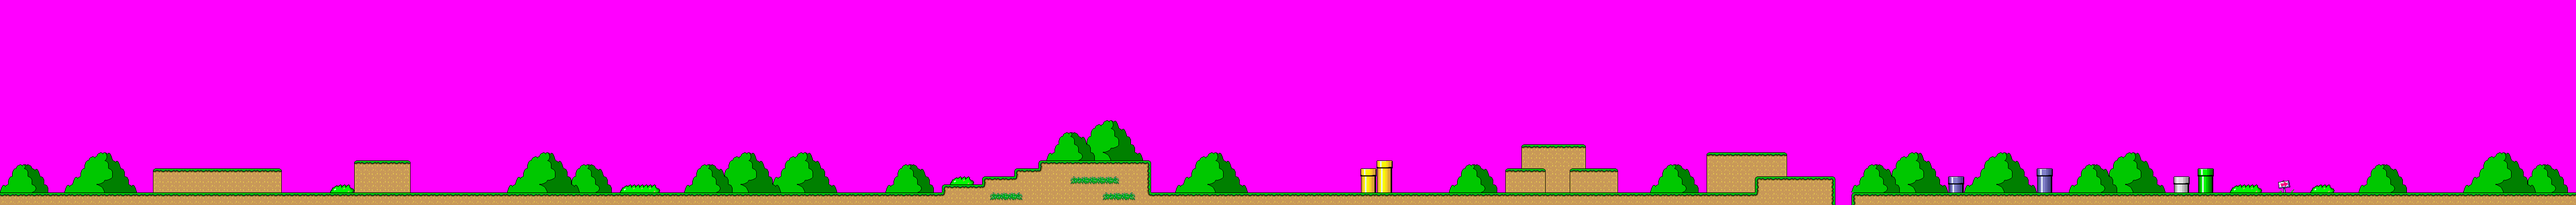
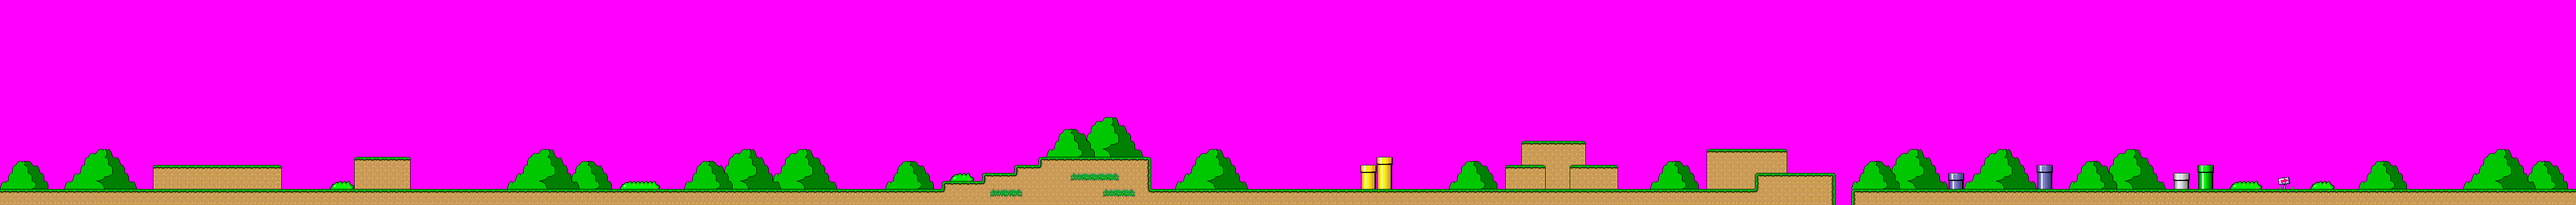
Add remaining coins
Adjust platforms and pipes placement
Improve sprite rendering (now using nearest neighbor)

Changed region(s): [[0.0, 0.5868, 1.0, 0.9976], [0.1875, 0.7335, 0.2188, 0.7922], [0.9062, 0.7922, 0.9375, 0.8215]]

diff --git a/LevelData.cpp b/LevelData.cpp
@@ -175,41 +175,41 @@ LevelData* LevelData::GenerateLevel(int levelIndex)
 	{
 		// TODO: Make this cleaner/more efficient, maybe use xml or json? (probably xml cause it's easier to parse manually)
 		// Definitely store in an external file
-		platformsStream << "[" << 305 << "," << 337 << "]";
-		platformsStream << "[" << 559 << "," << 342 << "]";
+		platformsStream << "[" << 305 << "," << 329 << "]";
+		platformsStream << "[" << 559 << "," << 334 << "]";
 		platformsStream << "\n";
-		platformsStream << "[" << 705 << "," << 321 << "]";
-		platformsStream << "[" << 815 << "," << 326 << "]";
+		platformsStream << "[" << 705 << "," << 313 << "]";
+		platformsStream << "[" << 815 << "," << 318 << "]";
 		platformsStream << "\n";
-		platformsStream << "[" << 2993 << "," << 337 << "]";
-		platformsStream << "[" << 3070 << "," << 342 << "]";
+		platformsStream << "[" << 2993 << "," << 329 << "]";
+		platformsStream << "[" << 3070 << "," << 334 << "]";
 		platformsStream << "\n";
-		platformsStream << "[" << 3025 << "," << 289 << "]";
-		platformsStream << "[" << 3150 << "," << 294 << "]";
+		platformsStream << "[" << 3025 << "," << 281 << "]";
+		platformsStream << "[" << 3150 << "," << 286 << "]";
 		platformsStream << "\n";
-		platformsStream << "[" << 3121 << "," << 337 << "]";
-		platformsStream << "[" << 3214 << "," << 342 << "]";
+		platformsStream << "[" << 3121 << "," << 329 << "]";
+		platformsStream << "[" << 3214 << "," << 334 << "]";
 		platformsStream << "\n";
-		platformsStream << "[" << 3393 << "," << 305 << "]";
-		platformsStream << "[" << 3550 << "," << 310 << "]";
+		platformsStream << "[" << 3393 << "," << 297 << "]";
+		platformsStream << "[" << 3550 << "," << 302 << "]";
 
-		pipesStream << "[" << 2705 << "," << 337 << "]";
-		pipesStream << "[" << 2733 << "," << 384 << "]";
+		pipesStream << "[" << 2704 << "," << 329 << "]";
+		pipesStream << "[" << 2734 << "," << 376 << "]";
 		pipesStream << "\n";
-		pipesStream << "[" << 2737 << "," << 321 << "]";
-		pipesStream << "[" << 2767 << "," << 384 << "]";
+		pipesStream << "[" << 2736 << "," << 313 << "]";
+		pipesStream << "[" << 2767 << "," << 376 << "]";
 		pipesStream << "\n";
-		pipesStream << "[" << 3873 << "," << 353 << "]";
-		pipesStream << "[" << 3902 << "," << 383 << "]";
+		pipesStream << "[" << 3872 << "," << 345 << "]";
+		pipesStream << "[" << 3903 << "," << 375 << "]";
 		pipesStream << "\n";
-		pipesStream << "[" << 4049 << "," << 337 << "]";
-		pipesStream << "[" << 4078 << "," << 383 << "]";
+		pipesStream << "[" << 4048 << "," << 329 << "]";
+		pipesStream << "[" << 4079 << "," << 375 << "]";
 		pipesStream << "\n";
-		pipesStream << "[" << 4321 << "," << 353 << "]";
-		pipesStream << "[" << 4350 << "," << 383 << "]";
+		pipesStream << "[" << 4320 << "," << 345 << "]";
+		pipesStream << "[" << 4351 << "," << 375 << "]";
 		pipesStream << "\n";
-		pipesStream << "[" << 4369 << "," << 337 << "]";
-		pipesStream << "[" << 4398 << "," << 383 << "]";
+		pipesStream << "[" << 4368 << "," << 329 << "]";
+		pipesStream << "[" << 4399 << "," << 375 << "]";
 
 		itemsStream << "[" << 609 << "," << 320 << "]";
 		itemsStream << int(Item::TYPE::PRIZE_BLOCK) << "\n";
@@ -227,20 +227,32 @@ LevelData* LevelData::GenerateLevel(int levelIndex)
 		itemsStream << int(Item::TYPE::MESSAGE_BLOCK) << " ";
 		itemsStream << "Resources/levels/01/message_box_01.png" << "\n";
 
-		itemsStream << "[" << 1240 << "," << 320 << "]";
+		itemsStream << "[" << 1234 << "," << 320 << "]";
 		itemsStream << int(Item::TYPE::COIN) << "\n";
-		itemsStream << "[" << 1250 << "," << 300 << "]";
+		itemsStream << "[" << 1250 << "," << 306 << "]";
 		itemsStream << int(Item::TYPE::COIN) << "\n";
-		itemsStream << "[" << 1266 << "," << 280 << "]";
+		itemsStream << "[" << 1268 << "," << 298 << "]";
 		itemsStream << int(Item::TYPE::DRAGON_COIN) << "\n";
-		itemsStream << "[" << 1288 << "," << 300 << "]";
+		itemsStream << "[" << 1285 << "," << 306 << "]";
 		itemsStream << int(Item::TYPE::COIN) << "\n";
-		itemsStream << "[" << 1302 << "," << 320 << "]";
+		itemsStream << "[" << 1300 << "," << 320 << "]";
 		itemsStream << int(Item::TYPE::COIN) << "\n";
+
+		itemsStream << "[" << 1727 << "," << 280 << "]";
+		itemsStream << int(Item::TYPE::DRAGON_COIN) << "\n";
 
 		itemsStream << "[" << 2511 << "," << 336 << "]";
 		itemsStream << int(Item::TYPE::MESSAGE_BLOCK) << " ";
 		itemsStream << "Resources/levels/01/message_box_02.png" << "\n";
+
+		itemsStream << "[" << 2285 << "," << 256 << "]";
+		itemsStream << int(Item::TYPE::COIN) << "\n";
+		itemsStream << "[" << 2300 << "," << 240 << "]";
+		itemsStream << int(Item::TYPE::COIN) << "\n";
+		itemsStream << "[" << 2315 << "," << 240 << "]";
+		itemsStream << int(Item::TYPE::COIN) << "\n";
+		itemsStream << "[" << 2330 << "," << 233 << "]";
+		itemsStream << int(Item::TYPE::DRAGON_COIN) << "\n";
 
 		itemsStream << "[" << 2850 << "," << 336 << "]";
 		itemsStream << int(Item::TYPE::PRIZE_BLOCK) << "\n";
@@ -253,6 +265,15 @@ LevelData* LevelData::GenerateLevel(int levelIndex)
 		itemsStream << int(Item::TYPE::ROTATING_BLOCK) << "\n";
 		itemsStream << "[" << 3201 << "," << 257 << "]";
 		itemsStream << int(Item::TYPE::ROTATING_BLOCK) << "\n";
+
+		itemsStream << "[" << 3439 << "," << 240 << "]";
+		itemsStream << int(Item::TYPE::COIN) << "\n";
+		itemsStream << "[" << 3454 << "," << 240 << "]";
+		itemsStream << int(Item::TYPE::COIN) << "\n";
+		itemsStream << "[" << 3470 << "," << 240 << "]";
+		itemsStream << int(Item::TYPE::COIN) << "\n";
+		itemsStream << "[" << 3501 << "," << 227 << "]";
+		itemsStream << int(Item::TYPE::DRAGON_COIN) << "\n";
 
 		itemsStream << "[" << 3575 << "," << 288 << "]";
 		itemsStream << int(Item::TYPE::EXCLAMATION_MARK_BLOCK) << "\n";
@@ -279,6 +300,41 @@ LevelData* LevelData::GenerateLevel(int levelIndex)
 		itemsStream << int(Item::TYPE::ROTATING_BLOCK) << "\n";
 		itemsStream << "[" << 4530 << "," << 289 << "]";
 		itemsStream << int(Item::TYPE::ROTATING_BLOCK) << "\n";
+
+		int coin_xo = 15;
+		int coin_yo = -15;
+		int x = 4556;
+		int y = 330;
+		itemsStream << "[" << x << "," << y << "]";
+		itemsStream << int(Item::TYPE::COIN) << "\n";
+		itemsStream << "[" << x + coin_xo * 1 << "," << y + coin_yo * 1 << "]";
+		itemsStream << int(Item::TYPE::COIN) << "\n";
+		itemsStream << "[" << x + coin_xo * 2 << "," << y + coin_yo * 2 << "]";
+		itemsStream << int(Item::TYPE::COIN) << "\n";
+		itemsStream << "[" << x + coin_xo * 3 << "," << y + coin_yo * 3 << "]";
+		itemsStream << int(Item::TYPE::COIN) << "\n";
+		y += coin_yo * 3;
+		itemsStream << "[" << x + coin_xo * 4 << "," << y << "]";
+		itemsStream << int(Item::TYPE::COIN) << "\n";
+		itemsStream << "[" << x + coin_xo * 5 << "," << y << "]";
+		itemsStream << int(Item::TYPE::COIN) << "\n";
+		itemsStream << "[" << x + coin_xo * 6 << "," << y << "]";
+		itemsStream << int(Item::TYPE::COIN) << "\n";
+		itemsStream << "[" << x + coin_xo * 7 << "," << y << "]";
+		itemsStream << int(Item::TYPE::COIN) << "\n";
+		itemsStream << "[" << x + coin_xo * 8 << "," << y << "]";
+		itemsStream << int(Item::TYPE::COIN) << "\n";
+		itemsStream << "[" << x + coin_xo * 9 << "," << y << "]";
+		itemsStream << int(Item::TYPE::COIN) << "\n";
+		itemsStream << "[" << x + coin_xo * 10 << "," << y << "]";
+		itemsStream << int(Item::TYPE::COIN) << "\n";
+		itemsStream << "[" << x + coin_xo * 11 << "," << y << "]";
+		itemsStream << int(Item::TYPE::COIN) << "\n";
+		itemsStream << "[" << x + coin_xo * 12 << "," << y << "]";
+		itemsStream << int(Item::TYPE::COIN) << "\n";
+		itemsStream << "[" << x + coin_xo * 13 << "," << y << "]";
+		itemsStream << int(Item::TYPE::COIN) << "\n";
+
 
 	} break;
 	default:

diff --git a/Game.cpp b/Game.cpp
@@ -13,8 +13,7 @@
 #include "SpriteSheetManager.h"
 #include "LevelData.h"
 
-Font* Game::Font16Ptr = nullptr;
-Font* Game::Font24Ptr = nullptr;
+Font* Game::Font12Ptr = nullptr;
 
 // Not actually what this matrix will contain, unless Game::WINDOW_SCALE is set to 1
 MATRIX3X2 Game::matIdentity = MATRIX3X2::CreateIdentityMatrix();
@@ -38,6 +37,15 @@ void Game::GameInitialize(GameSettings &gameSettingsRef)
 	gameSettingsRef.EnableAntiAliasing(false);
 
 	gameSettingsRef.EnableVSync(true);
+
+	// TODO: find out how to customize the icon in the menu bar
+	//WORD wIcon;
+
+	// NOTE: This line makes the sprites render without an ugly 
+	// black line around the edges, BUT the original game seems
+	// to have used some amount of blurring, so this does make it 
+	// look a little too crisp.
+	GAME_ENGINE->SetBitmapInterpolationModeNearestNeighbor();
 }
 
 void Game::GameStart()
@@ -45,8 +53,7 @@ void Game::GameStart()
 	SpriteSheetManager::Load();
 
 	// TODO: Add mario fonts
-	Game::Font16Ptr = new Font(String("consolas"), 16);
-	Game::Font24Ptr = new Font(String("consolas"), 24);
+	Game::Font12Ptr = new Font(String("consolas"), 12);
 
 	matIdentity = MATRIX3X2::CreateScalingMatrix(WINDOW_SCALE);
 
@@ -63,8 +70,7 @@ void Game::GameEnd()
 {
 	delete m_LevelPtr;
 
-	delete Font16Ptr;
-	delete Font24Ptr;
+	delete Font12Ptr;
 
 	WriteSessionInfoToFile();
 
@@ -125,6 +131,7 @@ void Game::GamePaint()
 		int x = Game::WIDTH - 107;
 		int y = 40;
 	
+		GAME_ENGINE->SetFont(Font12Ptr);
 		GAME_ENGINE->SetColor(COLOR(10, 10, 10, 160));
 		GAME_ENGINE->FillRect(x - 5, y - 5, x + 106, y + 140);
 

diff --git a/Level.cpp b/Level.cpp
@@ -157,10 +157,10 @@ void Level::Paint()
 
 #if 1
 	GAME_ENGINE->SetColor(COLOR(0, 0, 0));
-	GAME_ENGINE->SetFont(Game::Font16Ptr);
+	GAME_ENGINE->SetFont(Game::Font12Ptr);
 	//GAME_ENGINE->DrawString(String("Player pos: ") + m_PlayerPtr->GetPosition().ToString(), 10, 10);
 	//GAME_ENGINE->DrawString(String("Player vel: ") + m_PlayerPtr->GetLinearVelocity().ToString(), 10, 25);
-	GAME_ENGINE->DrawString(String("Player onGround: ") + String(m_PlayerPtr->IsOnGround() ? "true" : "false"), 10, 40);
+	GAME_ENGINE->DrawString(String("onGround: ") + String(m_PlayerPtr->IsOnGround() ? "true" : "false"), 10, 205);
 #endif
 
 	GAME_ENGINE->SetViewMatrix(matTotalView);
@@ -462,15 +462,14 @@ void Level::BeginContact(PhysicsActor *actThisPtr, PhysicsActor *actOtherPtr)
 			switch (item->GetType())
 			{
 			case Item::TYPE::COIN:
-			{
-				assert(m_ItemToBeRemoved == nullptr);
-
-				((Player*)actOtherPtr->GetUserPointer())->OnItemPickup(item);
-				m_ItemToBeRemoved = item;
-			} break;
 			case Item::TYPE::DRAGON_COIN:
 			{
-				assert(m_ItemToBeRemoved == nullptr);
+				if (m_ItemToBeRemoved != nullptr)
+				{
+					// The player is collecting two (or more) coins this tick, just return and let the 
+					// previous coin be collected, we'll almost definitely be colliding with this one again next tick
+					break;
+				}
 
 				((Player*)actOtherPtr->GetUserPointer())->OnItemPickup(item);
 				m_ItemToBeRemoved = item;

diff --git a/Player.cpp b/Player.cpp
@@ -27,7 +27,7 @@ Player::~Player()
 
 void Player::Reset()
 {
-	m_ActPtr->SetPosition(DOUBLE2(30, 370));
+	m_ActPtr->SetPosition(DOUBLE2(30, 367));
 	m_ActPtr->SetLinearVelocity(DOUBLE2(0, 0));
 
 	m_IsOnGround = false;
@@ -129,7 +129,7 @@ void Player::HandleKeyboardInput(double deltaTime, Level* levelPtr)
 			{
 				// NOTE: gravityScale is close to 1 at the start of the jump
 				// and goes towards 0 near the apex
-				double gravityScale = (m_FramesSpentInAir / 12.0) * 0.7;
+				double gravityScale = (m_FramesSpentInAir / 12.0) * 0.5;
 
 				// NOTE: This ensures gravityScale is in the range [0, 0.98]
 				gravityScale = max(0.0, min(0.98, gravityScale));

diff --git a/Game.h b/Game.h
@@ -22,7 +22,7 @@
 #define GAME_ENGINE (GameEngine::GetSingleton())
 
 #define SMW_ENABLE_JUMP_TO true
-#define SMW_JUMP_TO_POS_X 4500
+#define SMW_JUMP_TO_POS_X 4642
 
 class Game : public AbstractGame
 {
@@ -41,8 +41,7 @@ public:
 	virtual void GameTick(double deltaTime);
 	virtual void GamePaint();
 
-	static Font *Font16Ptr;
-	static Font *Font24Ptr;
+	static Font *Font12Ptr;
 
 	// How many pixels we have to work with, not how large the final window will be necessarily
 	static const int WIDTH = 256;

diff --git a/GameItem.cpp b/GameItem.cpp
@@ -84,6 +84,8 @@ Coin::Coin(DOUBLE2 topLeft, int life, TYPE type, DOUBLE2 size) :
 	m_ActPtr->SetFixedRotation(true);
 	m_ActPtr->SetSensor(true);
 
+	m_AnimInfo.msPerFrame = 0.15;
+
 	if (life > -1)
 	{
 		// This coin shoots up, then falls down, then disapears

diff --git a/Player.h b/Player.h
@@ -29,7 +29,7 @@ public:
 	Player(const Player&) = delete;
 
 	RECT2 GetCameraRect();
-
+	
 	bool Tick(double deltaTime, Level *levelPtr);
 	void TickAnimations(double deltaTime);
 
